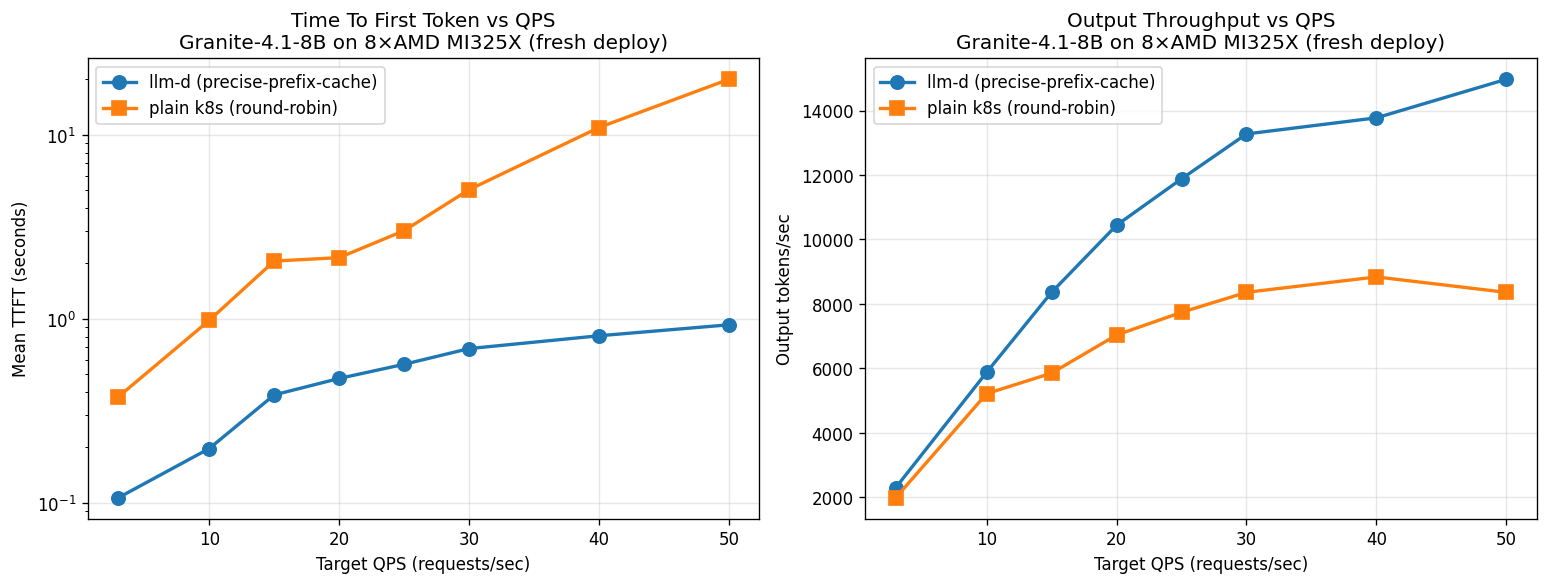
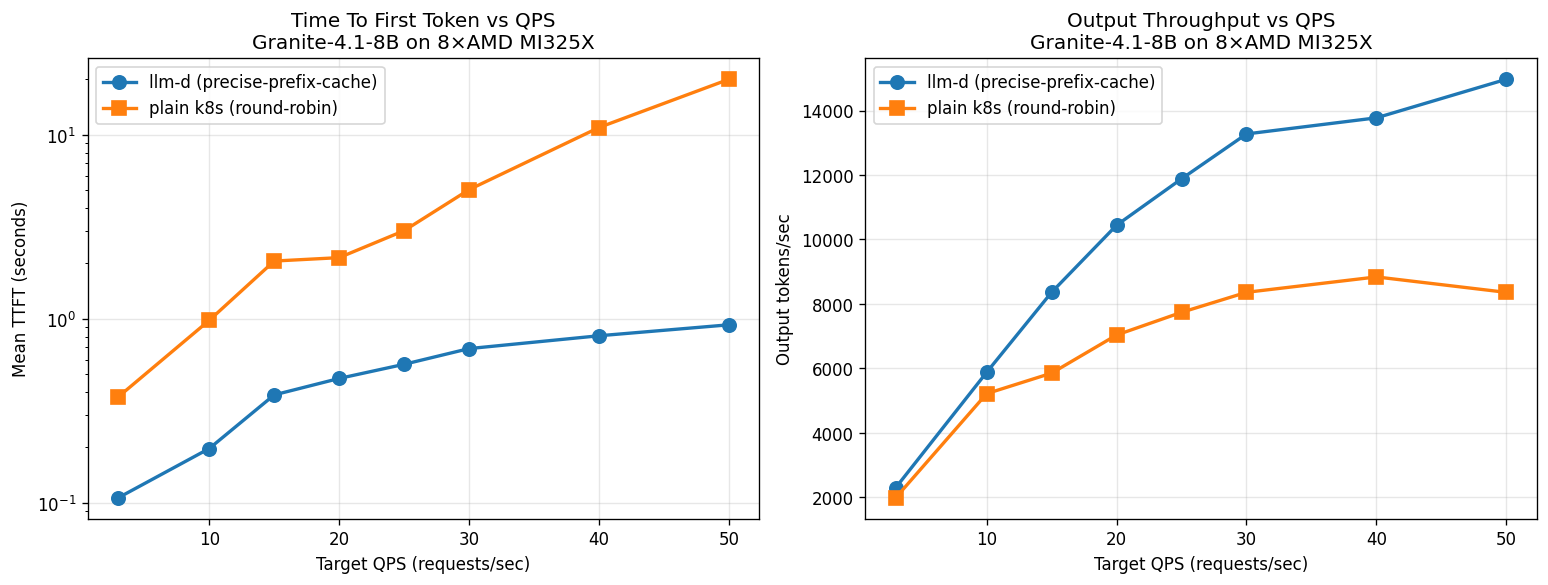
Add granite results on AMD

Changed region(s): [[0.6202, 0.0615, 0.9302, 0.0923], [0.124, 0.0615, 0.4341, 0.0923]]

diff --git a/2.2/precise-prefix-granite-amd-fresh/benchmark/plot_comparison.py b/2.2/precise-prefix-granite-amd-fresh/benchmark/plot_comparison.py
@@ -43,7 +43,7 @@ ax1.plot(rates, [r["k8s_ttft"] for r in rows], "s-",
          label="plain k8s (round-robin)", linewidth=2, markersize=8)
 ax1.set_xlabel("Target QPS (requests/sec)")
 ax1.set_ylabel("Mean TTFT (seconds)")
-ax1.set_title("Time To First Token vs QPS\nGranite-4.1-8B on 8×AMD MI325X (fresh deploy)")
+ax1.set_title("Time To First Token vs QPS\nGranite-4.1-8B on 8×AMD MI325X")
 ax1.legend()
 ax1.grid(True, alpha=0.3)
 ax1.set_yscale("log")
@@ -54,7 +54,7 @@ ax2.plot(rates, [r["k8s_tok"] for r in rows], "s-",
          label="plain k8s (round-robin)", linewidth=2, markersize=8)
 ax2.set_xlabel("Target QPS (requests/sec)")
 ax2.set_ylabel("Output tokens/sec")
-ax2.set_title("Output Throughput vs QPS\nGranite-4.1-8B on 8×AMD MI325X (fresh deploy)")
+ax2.set_title("Output Throughput vs QPS\nGranite-4.1-8B on 8×AMD MI325X")
 ax2.legend()
 ax2.grid(True, alpha=0.3)
 

diff --git a/Results.md b/Results.md
@@ -12,10 +12,10 @@
 
 # AMD - 8 GPUs (Prefix-caching)
 ## Granite-8b ✅ 
-Not yet finalized. We are trying decode-heavy workloads since AMD has larger memory, and is optimized for decode.
 
-![alt text](2.2/precise-prefix-granite-amd/benchmark/comparison_amd_only.png)
+![alt text](2.2/precise-prefix-granite-amd-fresh/benchmark/comparison_amd_fresh.png)
 
+**llm-d delivers up to 21× better TTFT and +79% throughput vs plain k8s round-robin on this AMD-only granite deployment**
 ## Sarvam-30b
 
 ![alt text](2.2/precise-prefix-sarvam-30b-amd/benchmark/comparison_rates_5_to_200_amd.png)